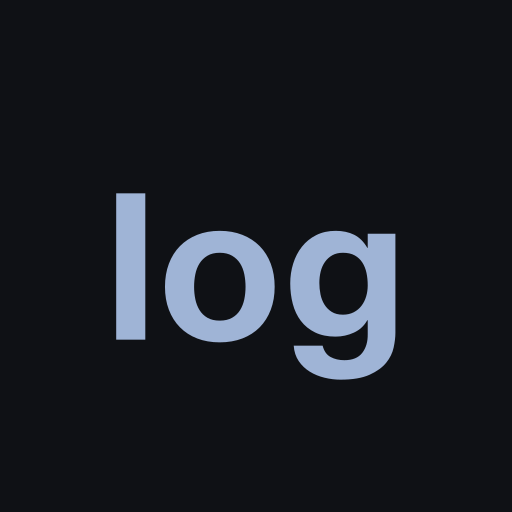
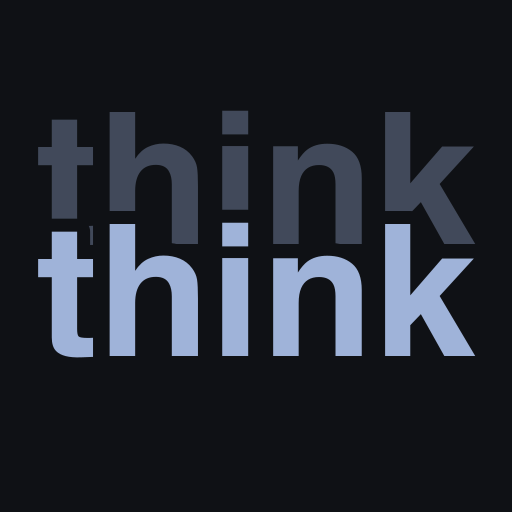
이름을 thinkthink 로 옮긴다
저장소도 도메인도 옮겼으니 안에 남은 juniqlog 를 정리한다.
package 이름, 서비스워커 캐시, 백업 repo 이름까지.

아이콘은 log 글자를 버리고 think 를 둘 겹쳐 쌓았다. 뇌 두 개를
겹쳐도 봤는데 작게 줄이면 구름으로 읽혀 글자로 돌아왔다. 위 글자를
아래가 살짝 가리는 만큼만 겹쳐 거듭이라는 뜻이 모양에 남는다.

캐시 이름을 바꾼 것은 옛 아이콘이 기기에 남지 않게 하려는 것이다.
src/draft.ts 의 juniqlog:draft 만 그대로 둔다 — 쓰다 만 글이 걸려 있다.

Changed region(s): [[0.0625, 0.2188, 0.9375, 0.75]]

diff --git a/public/sw.js b/public/sw.js
@@ -5,7 +5,7 @@
  * 그 키가 기기에 남으면 로그아웃해도 열리는 상태가 된다.
  */
 
-const CACHE = 'juniqlog-shell-v1'
+const CACHE = 'thinkthink-shell-v1'
 
 self.addEventListener('install', () => self.skipWaiting())
 

diff --git a/README.md b/README.md
@@ -1,21 +1,23 @@
-# juniqlog
+# thinkthink
 
 생각을 남긴다.  
 생각을 기록한다.  
 생각을 생각한다.
 
-생각을 남기는 개인 로그. 본문은 암호화해 보관한다.
+생각을 남기는 개인 로그. 본문은 암호화해 보관한다. `think about thinking`.
 
-## 차기 이름 후보
+## 이름
 
-`juniqlog` 는 내 아이디를 붙인 이름이라 무엇을 하는 물건인지 말해주지 않는다.
+`juniqlog` 는 내 아이디를 붙인 이름이라 무엇을 하는 물건인지 말해주지 않았다.
 
-이 앱은 로깅이면서 나와의 대화다. 그 둘을 다 담으려 한다.
+이 앱은 로깅이면서 나와의 대화다. 그 둘을 다 담으려 했다.
 이미 임자가 없을 것, 소리에 맛이 있을 것, 이름만 듣고 무엇인지 떠오를 것.
 
-**thinkthink** — 화면에 걸어두고 써보는 중이다. 부제는 `think about thinking`.
-확정은 아니라 저장소와 패키지 이름은 `juniqlog` 로 둔다.
-`src/draft.ts` 의 임시 저장 열쇠도 그대로다 — 바꾸면 쓰다 만 글이 사라진다.
+**thinkthink** 로 정했다. 저장소·패키지 이름과 도메인(`thinkthink.dev`)도 옮겼다.
+아이콘은 `think` 를 둘 겹쳐 쌓았다 — 거듭 생각한다는 뜻이 모양으로 읽힌다.
+
+`src/draft.ts` 의 임시 저장 열쇠 `juniqlog:draft` 만 그대로 둔다.
+바꾸면 쓰다 만 글이 사라진다.
 
 이름은 짧게, 뜻은 부제로 나눈다. 머리말 셋째 줄이 그대로 영어가 된 셈이다.
 `think and think` 는 "거듭 생각한다"라 다른 말이고, 문법을 벗어난 `thinkthink`

diff --git a/docs/backup-plan.md b/docs/backup-plan.md
@@ -48,7 +48,7 @@ gpg --batch --pinentry-mode loopback --passphrase "$BACKUP_PASS" -d dump.sql.gpg
 ## 남은 작업
 
 1. **백업 암호 정하기** ← 여기서 멈춤. 아래 "결정 필요" 참고
-2. 프라이빗 repo `juniqlog-backup` 생성 (이 repo는 **PUBLIC**이라 백업을 여기 두면 안 된다)
+2. 프라이빗 repo `thinkthink-backup` 생성 (이 repo는 **PUBLIC**이라 백업을 여기 두면 안 된다)
 3. 백업 repo에 Actions Secrets 등록: `SUPABASE_PROJECT_REF`, `SUPABASE_DB_PASSWORD`, `BACKUP_PASS`
    - **public인 이 repo에는 아무것도 넣지 않는다.** 워크플로도 백업 repo에서 돌린다.
 4. 워크플로 작성 (`.github/workflows/backup.yml`)
@@ -62,7 +62,7 @@ gpg --batch --pinentry-mode loopback --passphrase "$BACKUP_PASS" -d dump.sql.gpg
 
 **백업 암호를 어떻게 정할지.** 이 암호를 잃으면 백업 전체가 영구히 못 열린다.
 
-- **A안 (추천)**: 랜덤 생성 → `~/.juniqlog-backup-pass` (권한 600)에 저장하고 GitHub Secret에 등록.
+- **A안 (추천)**: 랜덤 생성 → `~/.thinkthink-backup-pass` (권한 600)에 저장하고 GitHub Secret에 등록.
   화면·대화 로그 어디에도 안 남는다. 파일을 열어 비밀번호 관리자로 옮긴 뒤 파일을 지운다.
 - **B안**: 직접 정하고 `gh secret set`으로 직접 등록.
 
